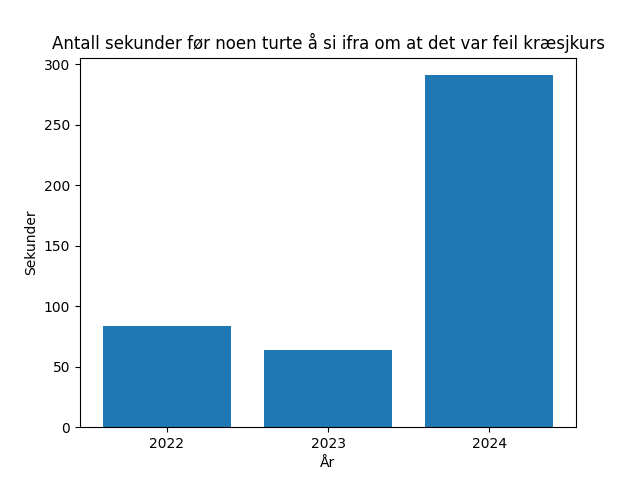
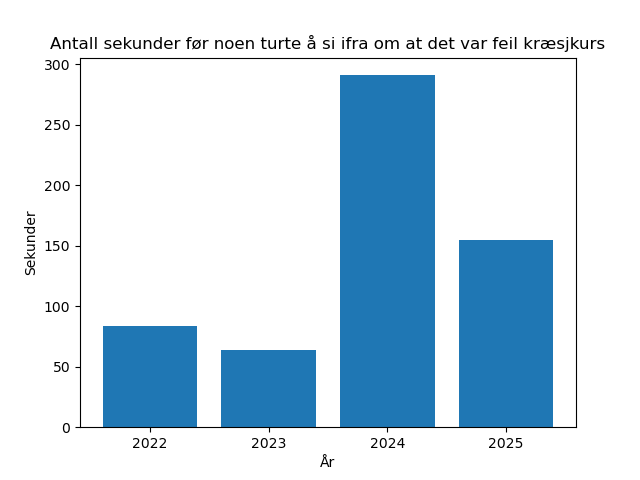
Minor changes

diff --git a/chapters/logic/quantifiers.tex b/chapters/logic/quantifiers.tex
@@ -3,17 +3,18 @@
     \begin{itemize}
         \item Ofte vil vi si noe om et predikat $P(x)$, men for flere potensielle $x$ samtidig.
         \pause
-        \item $\forall x : P(x)$ = $P(x_1) \land P(x_2) \land ... \land P(x_n)$ = ''For alle $x$ er det sant at $P(x)$''
+        \item $\forall x : P(x) \equiv P(x_1) \land P(x_2) \land ... \land P(x_n) \equiv$ ''For alle $x$ er det sant at $P(x)$''
         \pause
-        \item $\exists x : P(x)$ = $P(x_1) \lor P(x_2) \lor ... \lor P(x_n)$ = ''Det eksisterer en $x$ slik at det er sant at $P(x)$''
+        \item $\exists x : P(x) \equiv P(x_1) \lor P(x_2) \lor ... \lor P(x_n) \equiv$ ''Det eksisterer en $x$ slik at det er sant at $P(x)$''
         \pause
-        \item $\exists x \in S : P(x)$ = ''Det eksisterer en $x$ i settet $S$ slik at  det er sant at $P(x)$''
+        \item $\exists x \in S : P(x) \equiv$ ''Det eksisterer en $x$ i settet $S$ slik at  det er sant at $P(x)$''
     \end{itemize}
     
     \pause
+
     \begin{block}{Eksempler}
-        $\forall x : x < x + 1$ = ''For alle x er det sant at $x < x +1$''\\
-        $\exists x : x > x^2$ = ''Det eksisterer en x slik at det er sant at $x > x^2$''\\
+        $\forall x : x < x + 1 \equiv$ ''For alle x er det sant at $x < x +1$''\\
+        $\exists x : x > x^2 \equiv$ ''Det eksisterer en x slik at det er sant at $x > x^2$''\\
         $\exists x \in \mathbb{N} : x \cdot x = 1$\\
     \end{block}
 \end{frame}
@@ -55,9 +56,6 @@ def exists(p, xs):
         $\forall x \exists y : (x \cdot y = 1)$ = ''For alle x eksisterer det en y slik at $x \cdot y = 1$'' \\
         \pause
         $\exists x \forall y : (x^2 \leq y^2)$ = ''Det eksisterer en x slik at for alle y er $x^2 \leq y^2$''\\
-        \pause
-        $\lnot \exists n, a, b, c \in \mathbb{Z} : (n > 2 \land a^n + b^n = c^n)$\\
-        %$\lnot \exists n \exists a \exists b \exists c (a,b,c,n \in Z \land n > %2 \land a^n + b^n = c^n)$
     \end{block}
 \end{frame}
 

diff --git a/main.tex b/main.tex
@@ -1,6 +1,6 @@
 % !TEX root = main.tex
 
-\documentclass[aspectratio=169,fleqn,handout,xcolor={dvipsnames}]{beamer}
+\documentclass[aspectratio=169,fleqn,handout,xcolor={dvipsnames},9pt]{beamer}
 
 \usetheme[pageofpages=of]{hubln}
 
@@ -87,7 +87,7 @@
 \author[ls]{Steinar Simonnes og Carina Seidel}
 \title[sgp]{Kræsjkurs MNF130}
 \institute{Institutt for Informatikk \\ Universitetet i Bergen}
-\date[22.05.24]{22. Mai 2024}
+\date[23.05.25]{23. Mai 2025}
 
 \begin{document}
 

diff --git a/chapters/intro.tex b/chapters/intro.tex
@@ -9,10 +9,10 @@
     %\tableofcontents
     \begin{columns}[t]
         \begin{column}{.5\textwidth}
-            \tableofcontents[sections={1-4}]
+            \tableofcontents[sections={1-5}]
         \end{column}
         \begin{column}{.5\textwidth}
-            \tableofcontents[sections={5-}]
+            \tableofcontents[sections={6-}]
         \end{column}
     \end{columns}
 \end{frame}

diff --git a/chapters/algorithms/complexity.tex b/chapters/algorithms/complexity.tex
@@ -23,8 +23,10 @@ def minAndMax(list):
 def minAndMax(list):
     min, max = list[0], list[0]
     for elem in list[1:]:
-        if elem < min: min = elem
-        if elem > max: max = elem
+        if elem < min: 
+            min = elem
+        if elem > max: 
+            max = elem
     return (min, max)
     
 def minAndMax(list):

diff --git a/plot_stats.py b/plot_stats.py
@@ -1,7 +1,10 @@
 import matplotlib.pyplot as plt
 
-years = [2022, 2023, 2024]
-results = [84, 64, 291]
+minutes = 2
+seconds = 35
+
+years = [2022, 2023, 2024, 2025]
+results = [84, 64, 291, 60 * minutes + seconds]
 
 plt.bar(years, results)
 plt.xticks(years)
